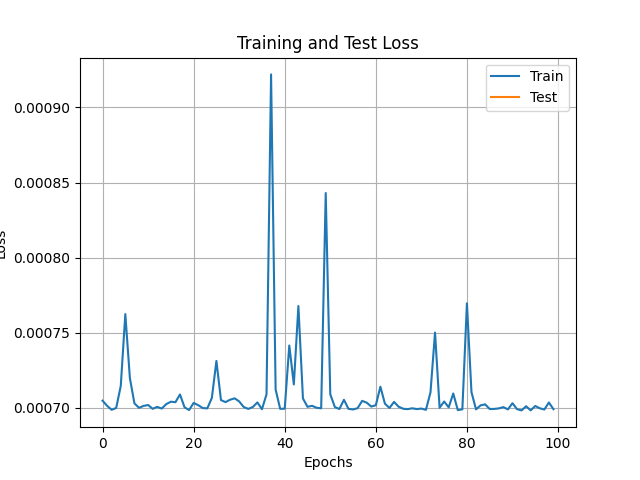
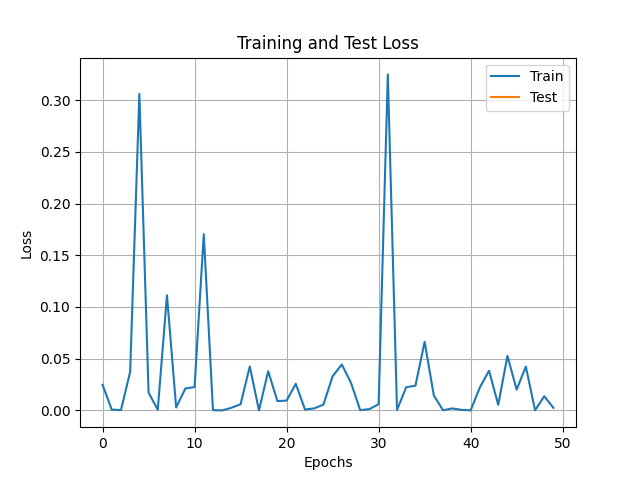
Apparently it worked well

diff --git a/flower/client.py b/flower/client.py
@@ -10,13 +10,14 @@ from torch.utils.data import Dataset
 import matplotlib.pyplot as plt
 import os
 import argparse
+from tqdm import tqdm
 warnings.filterwarnings("ignore", category=UserWarning)
 
 from models.OmniScaleCNN import OmniScaleCNN
 
-DEVICE = torch.device("cuda:0" if torch.cuda.is_available() else "cpu")
+DEVICE = torch.device("cuda" if torch.cuda.is_available() else "cpu")
 
-model_name = "LSTM"
+model_name = "OmniScaleCNN"
 
 
 
@@ -44,7 +45,7 @@ def create_loss_graph(train_losses, test_losses, plt_title):
 
 
 class SequenceDataset(Dataset):
-    def __init__(self, dataframe, target, features, sequence_length=5):
+    def __init__(self, dataframe, target, features, sequence_length=30):
         self.features = features
         self.target = target
         self.sequence_length = sequence_length
@@ -137,7 +138,7 @@ def load_data(client_id):
     # reating the dataset and the data loaders for real
     #torch.manual_seed(101)
 
-    batch_size = 32
+    batch_size = 8
     sequence_length = 30
 
     train_dataset = SequenceDataset(
@@ -172,47 +173,47 @@ def load_data(client_id):
 
 
 def train(net, trainloader, epochs):
-    """Train the network on the training set."""
+    """Train the model on the training set."""
     criterion = torch.nn.MSELoss()
-    optimizer = torch.optim.SGD(net.parameters(), lr=0.001, momentum=0.9)
-    correct, total, epoch_loss = 0, 0, 0.0
+    optimizer = torch.optim.SGD(net.parameters(), lr=0.1, momentum=0.9)
     loss_list = []
-    print("Len trainloader"+ str(len(trainloader)))
+    epoch_loss = 0.0
     for epoch in range(epochs):
-        for inputs, targets in trainloader:
-            inputs, targets = inputs.to(DEVICE), targets.to(DEVICE)
+        for images, labels in tqdm(trainloader):
             optimizer.zero_grad()
-            outputs = net(inputs)
-            loss = criterion(net(inputs), targets)
+            loss = criterion(net(images.to(DEVICE)), labels.to(DEVICE))
             loss.backward()
             optimizer.step()
-            # Metrics
             epoch_loss += loss
-            total += targets.size(0)
         epoch_loss /= len(trainloader.dataset)
         print(f"Epoch {epoch + 1}: train loss {epoch_loss}")
         loss_list.append(epoch_loss.item())
+    print(loss_list)
     return loss_list
 
 
 def test(net, testloader):
-    """Validate the network on the entire test set."""
+    """Validate the model on the test set."""
     criterion = torch.nn.MSELoss()
-    correct, total, loss_total = 0, 0, 0.0
-    loss_list = []
+    correct, total, loss = 0, 0, 0.0
     with torch.no_grad():
-        for data in testloader:
-            images, labels = data[0].to(DEVICE), data[1].to(DEVICE)
-            outputs = net(images)
-            loss_total += criterion(outputs, labels).item()
-            _, predicted = torch.max(outputs.data, 0)
-            total += labels.size(0)
-            correct += (predicted == labels).sum().item()
-            loss = criterion(outputs, labels).item()
-            loss_list.append(loss)
-    accuracy = correct / total
-    print(f"Test Loss (AVG): {loss_total}")
-    return loss_total, accuracy, loss_list
+        for images, labels in tqdm(testloader):
+            outputs = net(images.to(DEVICE))
+            labels = labels.to(DEVICE)
+            print("OUTPUTS: "+str(len(outputs)))
+            print("LABELS: " +str(len(labels)))
+            if len(outputs) == 5:
+                break
+            loss += criterion(outputs, labels).item()
+            total += labels.to(DEVICE).size(0)
+            predicted = torch.max(outputs.data, 0)
+            print("PREDICTED: "+str(predicted))
+            print("LABELS: "+str(labels))
+            correct += (predicted == labels.to(DEVICE)).sum().item()
+    print("LOSS: "+str(loss/len(testloader.dataset)))
+    print("CORRECT: "+str(correct/total))
+    return loss/len(testloader.dataset), correct/total
+
 
 
 class ShallowRegressionLSTM(nn.Module):
@@ -257,11 +258,12 @@ class FlowerClient(fl.client.NumPyClient):
     def fit(self, parameters, config):
         self.set_parameters(parameters)
         self.losses_train = train(net, trainloader, epochs=args.epoch)
+        print("SELF TRAIN: "+str(self.losses_train))
         return self.get_parameters(config={}), len(trainloader.dataset), {}
 
     def evaluate(self, parameters, config):
         self.set_parameters(parameters)
-        loss, accuracy, self.losses_test = test(net, testloader)
+        loss, accuracy = test(net, testloader)
         return loss, len(testloader.dataset), {"accuracy": accuracy}
 
 parser = argparse.ArgumentParser(description='Distbelief training example')
@@ -274,7 +276,7 @@ parser.add_argument("--epoch", type=int, default=30)
 parser.add_argument("--lr", type=float, default=0.001)
 parser.add_argument("--cuda", type=bool, default=True)
 parser.add_argument("--num_workers", type=int, default=4)
-parser.add_argument("--batch_size", type=int, default=32)
+parser.add_argument("--batch_size", type=int, default=8)
 args = parser.parse_args()
 
 
@@ -282,7 +284,7 @@ def get_model(model_name):
     if model_name == "OmniScaleCNN":
         c_in = 30
         seq_len = 11
-        c_out = 32
+        c_out = 8
         model = OmniScaleCNN(c_in, c_out, seq_len)
         return model
     elif model_name == "LSTM":
@@ -290,7 +292,7 @@ def get_model(model_name):
         return model
 
 # Load model and data
-net = get_model("OmniScaleCNN")
+net = get_model(model_name)
 net.cuda()
 trainloader, testloader, num_examples = load_data(args.client_id)
 client = FlowerClient()

diff --git a/flower/models/OmniScaleCNN.py b/flower/models/OmniScaleCNN.py
@@ -53,7 +53,7 @@ class OmniScaleCNN(nn.Module):
     def __init__(self, c_in, c_out, seq_len, layers=[8 * 128, 5 * 128 * 256 + 2 * 256 * 128], few_shot=False):
         super().__init__()
         receptive_field_shape = seq_len//4
-        layer_parameter_list = generate_layer_parameter_list(1,receptive_field_shape, layers, in_channel=c_in)
+        layer_parameter_list = generate_layer_parameter_list(1, receptive_field_shape, layers, in_channel=c_in)
         self.few_shot = few_shot
         self.layer_parameter_list = layer_parameter_list
         self.layer_list = []
